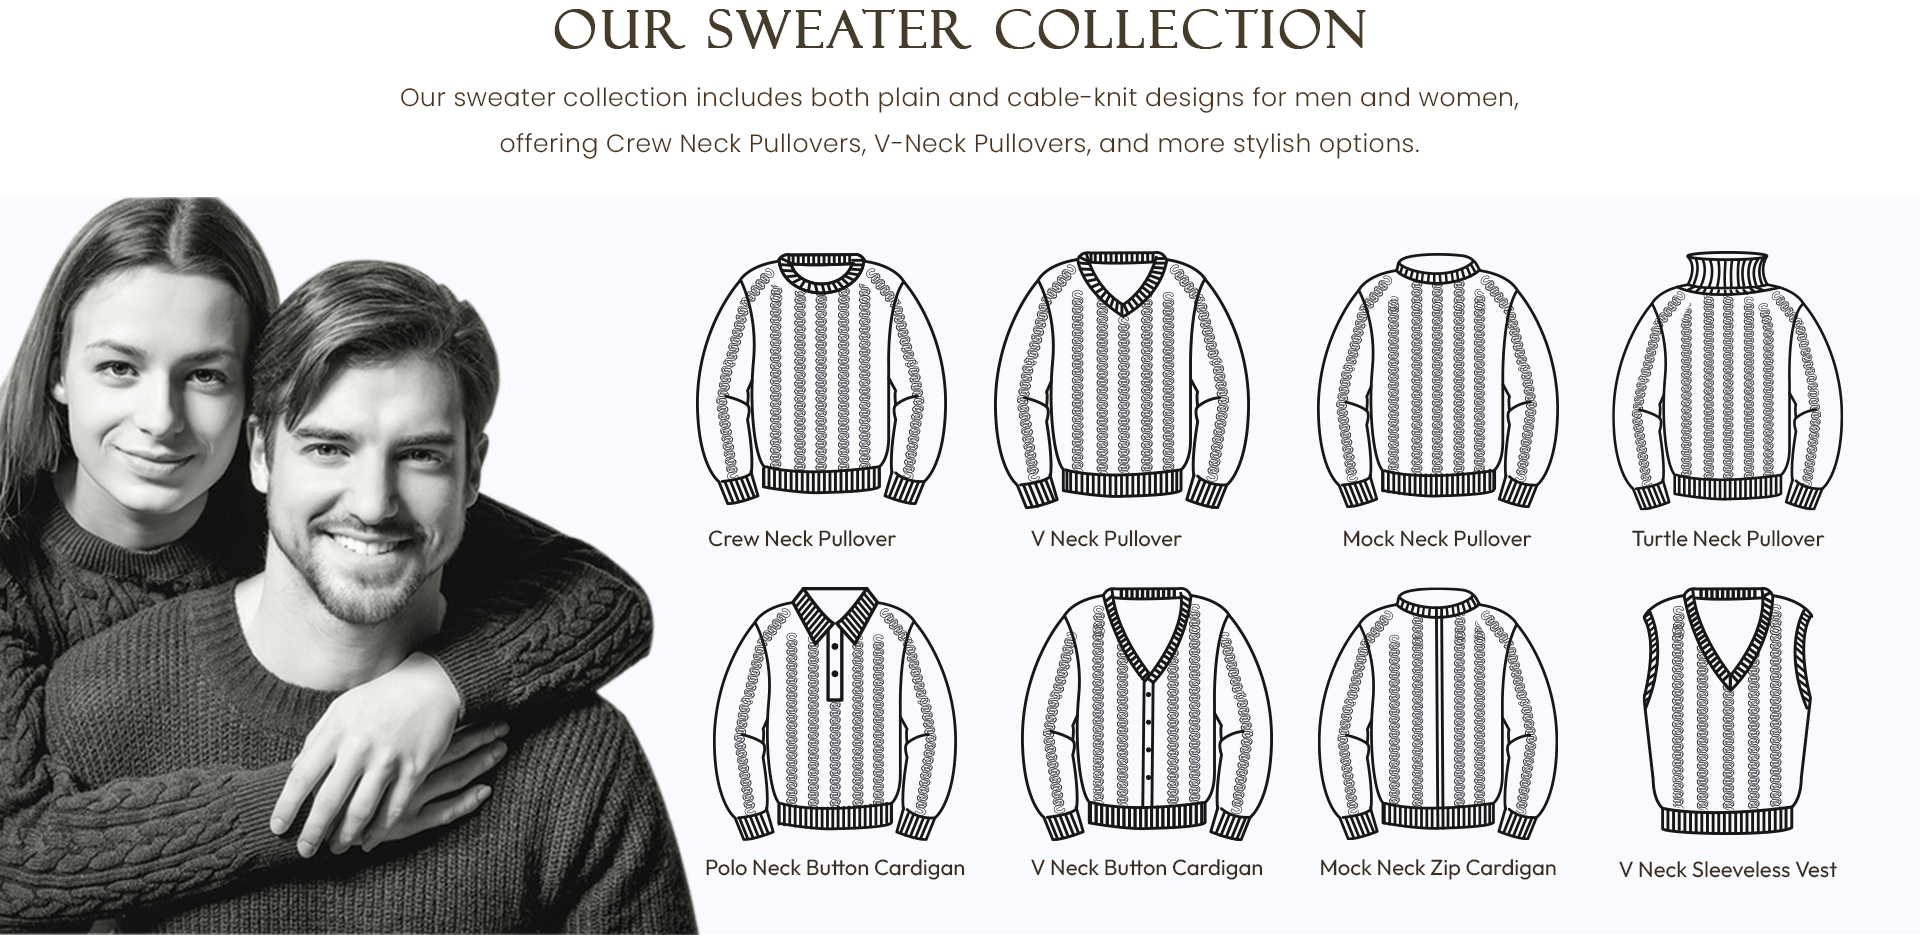
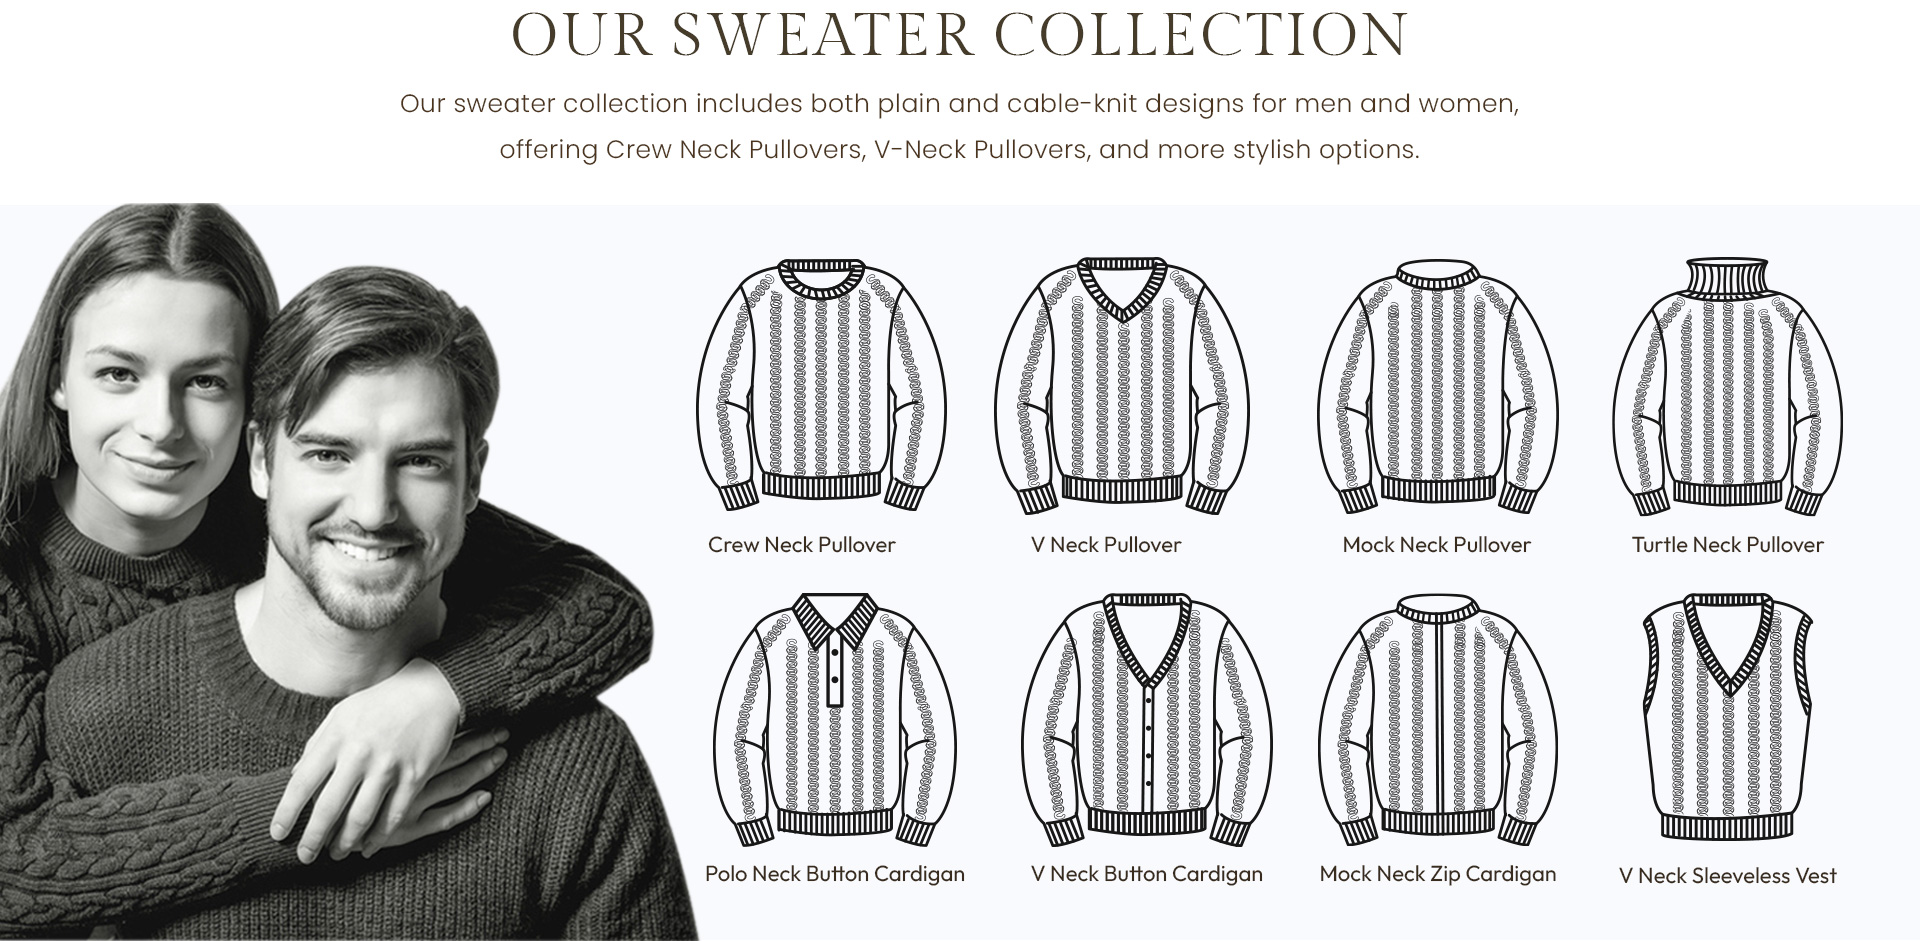
add styles

diff --git a/app/globals.css b/app/globals.css
@@ -4,7 +4,7 @@
 @tailwind components;
 @tailwind utilities;
 
-@import url('https://fonts.googleapis.com/css2?family=Figtree:ital,wght@0,300..900;1,300..900&family=Merriweather:ital,wght@0,300;0,400;0,700;0,900;1,300;1,400;1,700;1,900&display=swap');
+@import url('https://fonts.googleapis.com/css2?family=Figtree:ital,wght@0,300..900;1,300..900&family=Gilda+Display&family=Merriweather:ital,wght@0,300;0,400;0,700;0,900;1,300;1,400;1,700;1,900&display=swap');
 
 .image-container {
   position: fixed;
@@ -48,11 +48,12 @@ font-style: normal;
 .main-title {
   text-align: left;
   font-size: 40px;
-  line-height: 1.5;
-  font-weight: 500;
+  line-height: 40px;
   text-transform: uppercase;
   padding:0 20px;
-  font-family: "Merriweather", serif;
+  font-family: "Gilda Display", serif;
+  font-weight: 400;
+  font-style: normal;
 }
 
 .main-title span {
@@ -314,17 +315,17 @@ font-style: normal;
   }
   
   .style-title.bnr {
-    font-size: 55px;
+    font-size: 64px;
     text-align: left;
     text-transform: uppercase;
-    line-height: 70px;
+    line-height: 64px;
     padding-top: 150px;
     position: absolute;
-    font-family: "Merriweather", serif;
+    font-family: "Gilda Display", serif;
     font-weight: 400;
     font-style: normal;
+    letter-spacing: -3.2px;
   }
-
 
   .profileSection {
     background: #f9fafd;
